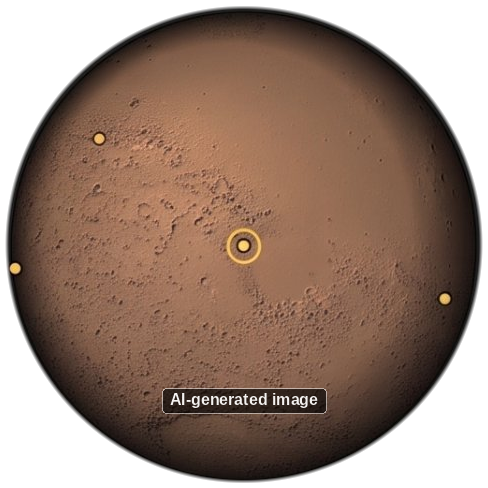
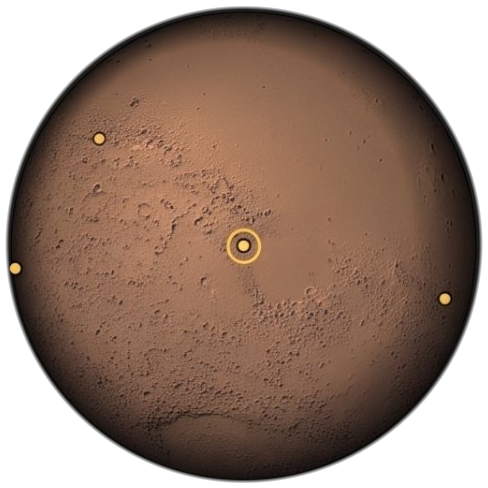
Website: the AI label sits in the bottom right corner of each picture
The label is now page text over the picture, not part of the picture file.
The opening picture is cut to fit the window, so a label drawn inside it
was cut off or hidden behind the two boxes on some screens. As page text
it stays whole on every screen, and screen readers can read it.

- index.html, css/home.css: the label (.aimark) on the opening picture and
  on the two globes.
- img/hero.jpg, img/globe-moon.png, img/globe-mars.png: the pictures without
  the drawn label. Each file carries the same note in its metadata.

Claude-Session: https://claude.ai/code/session_01N65Rs18HzBNGWvM4QQ18x8

Changed region(s): [[0.3074, 0.7684, 0.6762, 0.8607]]

diff --git a/website/index.html b/website/index.html
@@ -7,10 +7,10 @@
 <meta name="description" content="Find the places on Earth most like a region on the Moon or Mars. NASA Space Apps Challenge 2026, team AvenGuarde.">
 <link rel="icon" type="image/png" href="img/favicon.png">
 <link rel="preload" href="fonts/google-sans-flex-latin-wght-normal.woff2" as="font" type="font/woff2" crossorigin>
-<link rel="preload" href="img/hero.jpg" as="image">
+<link rel="preload" href="img/hero.jpg?v=46" as="image">
 <link rel="stylesheet" href="css/tokens.css?v=45">
 <link rel="stylesheet" href="css/base.css?v=45">
-<link rel="stylesheet" href="css/home.css?v=45">
+<link rel="stylesheet" href="css/home.css?v=46">
 </head>
 <body>
 
@@ -29,7 +29,7 @@
   <!-- Part 1: the opening screen. The picture is the team's own (img/hero.jpg); the words and the button are live. -->
   <section class="hero" aria-labelledby="heroTitle">
     <div class="hero__art" aria-hidden="true">
-      <img src="img/hero.jpg" alt="" width="2576" height="1438" decoding="async" fetchpriority="high">
+      <img src="img/hero.jpg?v=46" alt="" width="2576" height="1438" decoding="async" fetchpriority="high">
     </div>
     <div class="hero__text">
       <p class="label">NASA Space Apps Challenge 2026</p>
@@ -49,6 +49,8 @@
         <p>We measured Earth, the Moon and Mars the same way: terrain, temperature and rock. Pick a target, and the tool compares it with all of Earth's land, maps the closest places, and tests if the match is better than chance.</p>
       </div>
     </div>
+    <!-- The picture behind this screen is AI-generated; this label says so. -->
+    <p class="aimark hero__mark">AI-generated image · made with Google Flow</p>
   </section>
 
   <!-- Part 2: the two buttons. The globes are the team's own pictures; the facts on each tile are read from the backend's files by js/home-worlds.js. -->
@@ -56,7 +58,10 @@
     <h2 class="headline" id="worldsTitle">Choose a world</h2>
     <div class="worlds__grid">
       <a class="world" id="worldMoon" href="explore.html?body=moon" data-body="moon">
-        <img class="world__globe" src="img/globe-moon.png" alt="" width="488" height="488" decoding="async">
+        <span class="world__pic">
+          <img class="world__globe" src="img/globe-moon.png?v=46" alt="" width="488" height="488" decoding="async">
+          <span class="aimark">AI-generated image</span>
+        </span>
         <span class="world__name">Moon</span>
         <span class="world__fact" data-fact>&nbsp;</span>
         <span class="btn btn--tile world__go">Explore analog locations for the Moon
@@ -64,7 +69,10 @@
         </span>
       </a>
       <a class="world" id="worldMars" href="explore.html?body=mars" data-body="mars">
-        <img class="world__globe" src="img/globe-mars.png" alt="" width="488" height="488" decoding="async">
+        <span class="world__pic">
+          <img class="world__globe" src="img/globe-mars.png?v=46" alt="" width="488" height="488" decoding="async">
+          <span class="aimark">AI-generated image</span>
+        </span>
         <span class="world__name">Mars</span>
         <span class="world__fact" data-fact>&nbsp;</span>
         <span class="btn btn--tile world__go">Explore analog locations for Mars

diff --git a/website/css/home.css b/website/css/home.css
@@ -23,12 +23,20 @@
 .hbox .label { margin: 0; color: var(--primary); }
 .hbox--answer .label { color: var(--answer); }
 .hbox p { margin: 8px 0 0; font: 400 clamp(15px, 2.35vh, 20px)/1.45 var(--f-sans); color: var(--on-surface); }
+/* The opening picture and the two globes are AI-generated. Each one carries this small label in its bottom right corner.
+   It is page text, not part of the picture, so it stays whole when the picture is cut to fit the window. */
+.aimark { position: absolute; z-index: 2; margin: 0; padding: 2px 7px; font: 500 11px/1.3 var(--f-sans); letter-spacing: 0.01em; white-space: nowrap;
+  color: rgba(255, 255, 255, 0.86); background: rgba(0, 0, 0, 0.6); border: 1px solid rgba(255, 255, 255, 0.3); border-radius: 4px; pointer-events: none; }
+.hero__mark { right: max(var(--pad), calc((100vw - var(--max-w)) / 2)); bottom: max(3px, calc(2.2vh - 10px)); }
+.world__pic { position: relative; display: block; line-height: 0; }
+.world__pic .aimark { right: 0; bottom: 0; }
 /* On a narrow screen the boxes sit one under the other, and the opening screen grows to hold them. */
 @media (max-width: 760px) {
   .hero { height: auto; min-height: 100vh; display: flex; flex-direction: column; }
   .hero__text { position: relative; top: auto; left: auto; padding: 12.2vh var(--pad) 0; }
   .hero__boxes { position: relative; left: auto; right: auto; bottom: auto; margin: auto var(--pad) 28px; padding-top: 32px; grid-template-columns: 1fr; gap: 12px; }
   .hbox p { font-size: 16px; }
+  .hero__mark { right: var(--pad); bottom: 4px; }
 }
 
 /* Home, part 2: the two buttons. Each tile is one link: the body's picture, its name, one line of facts, the button.
